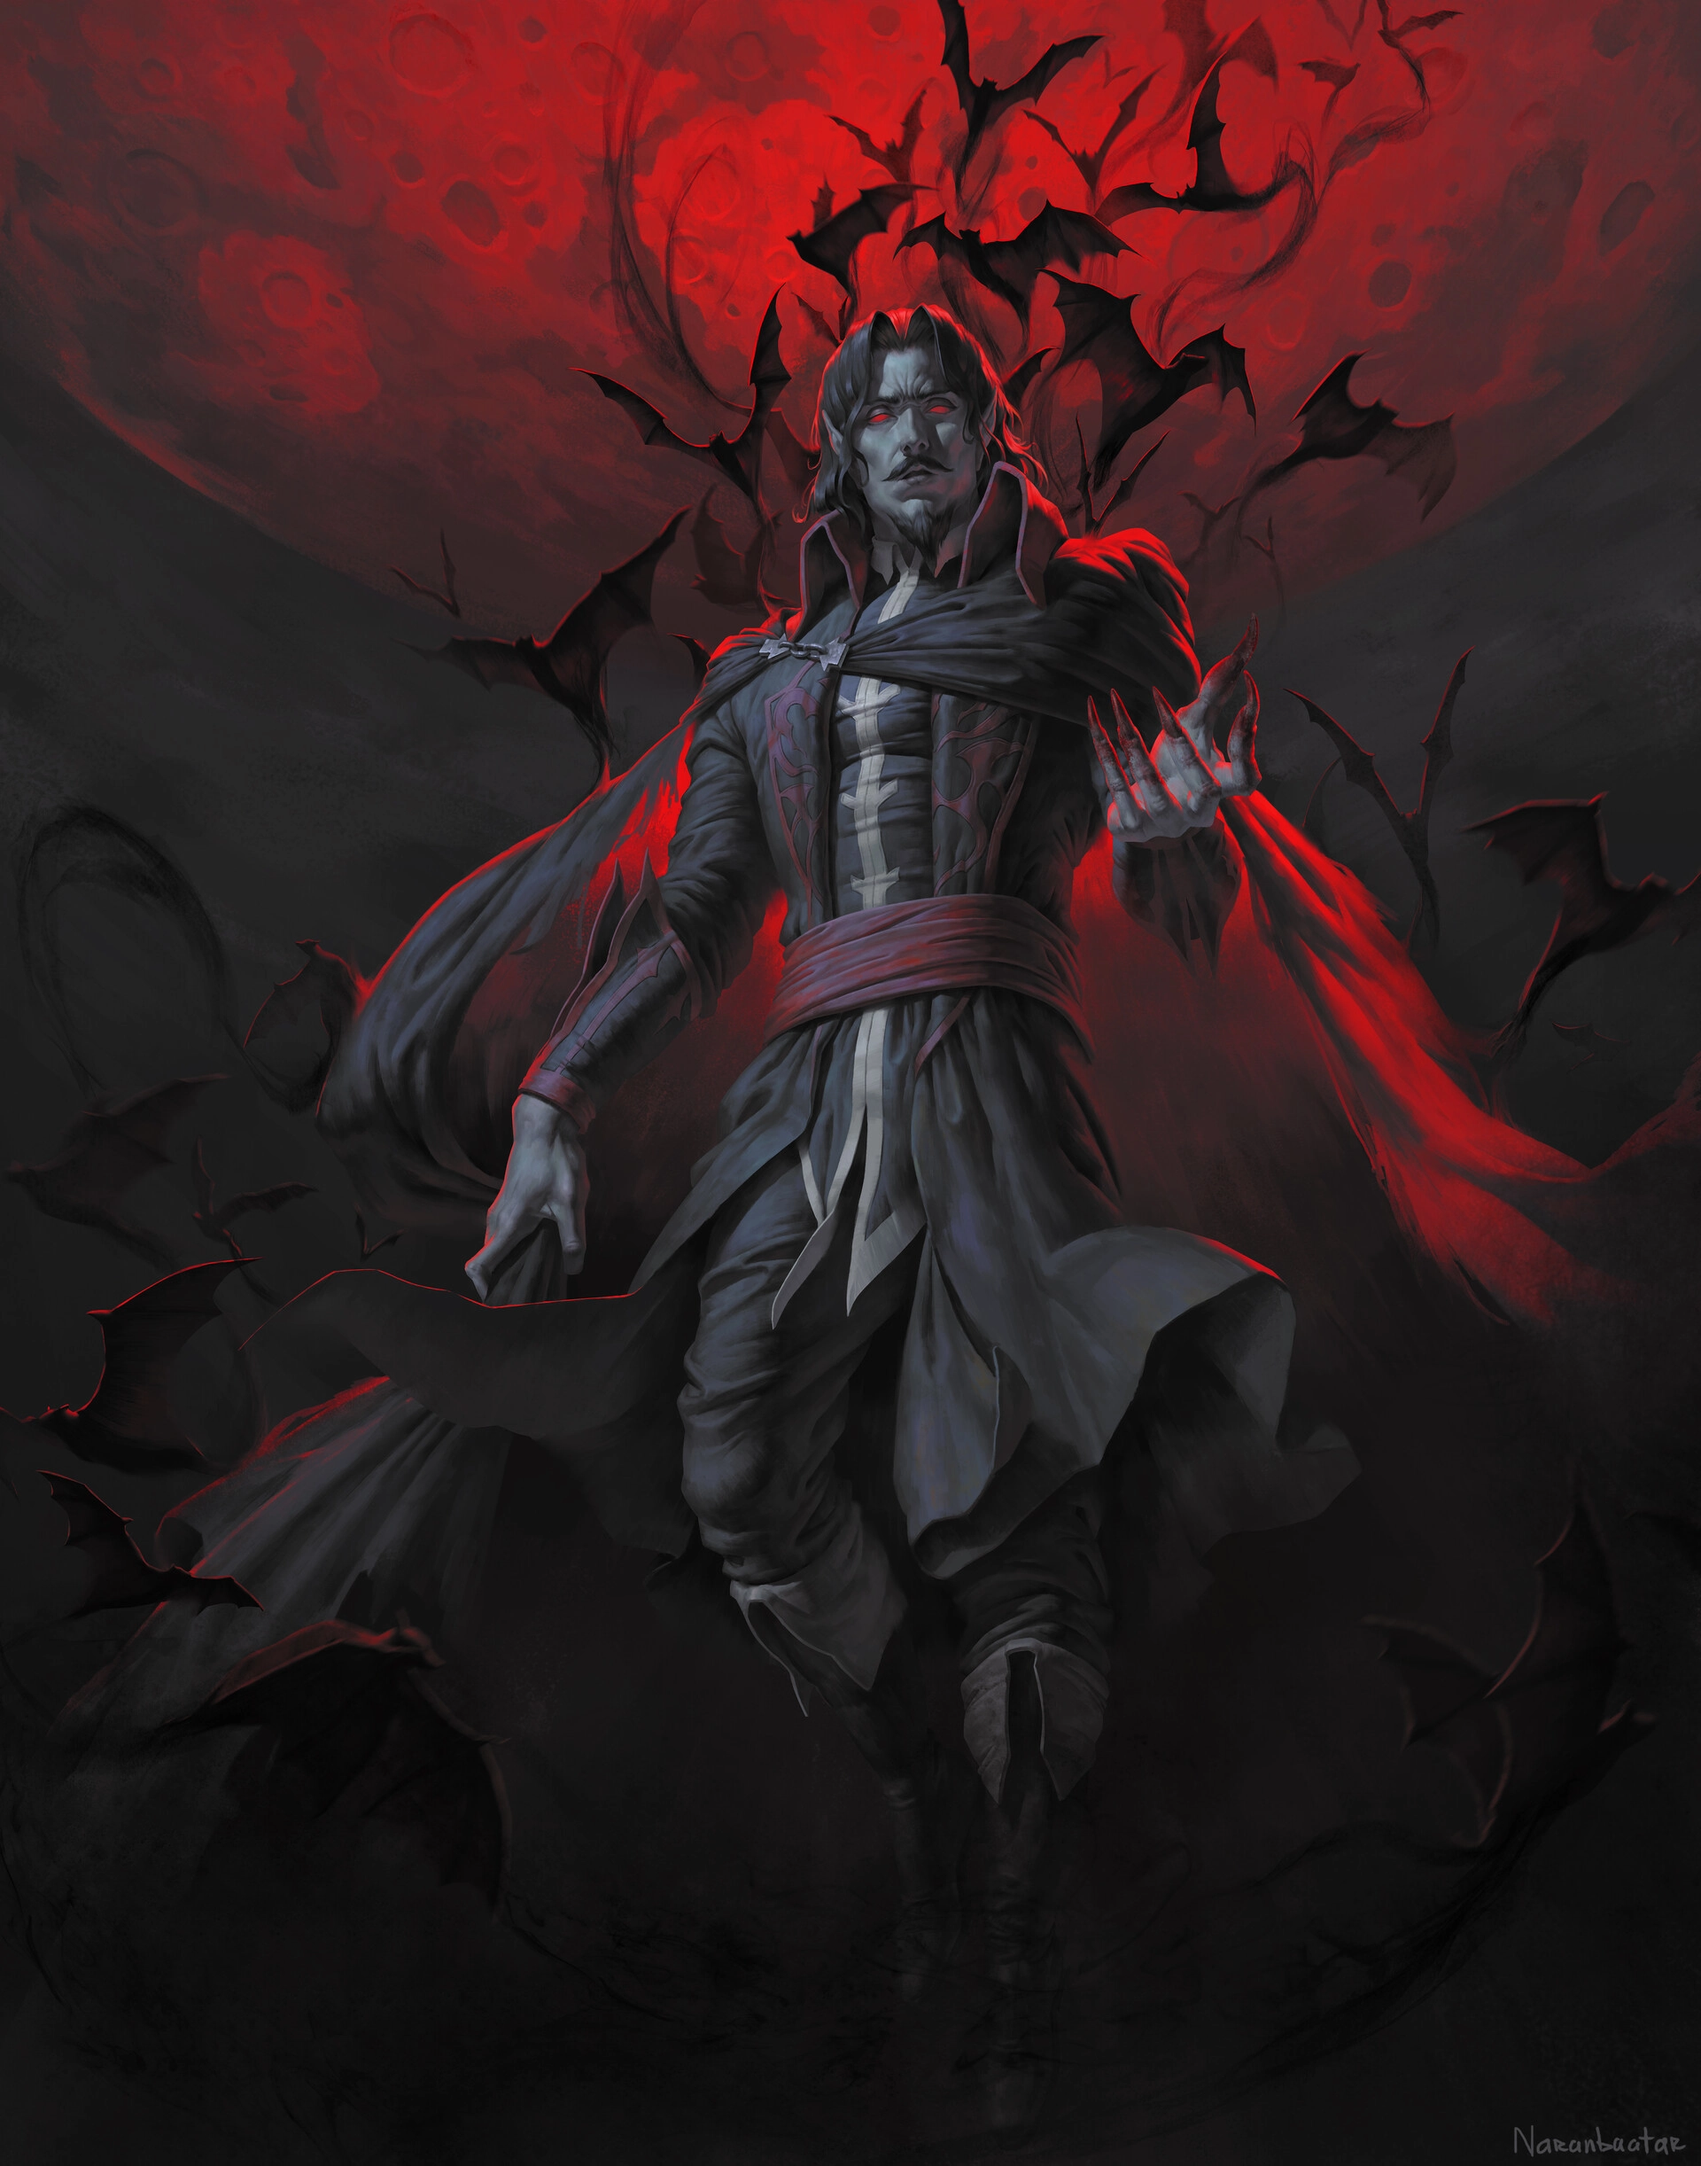
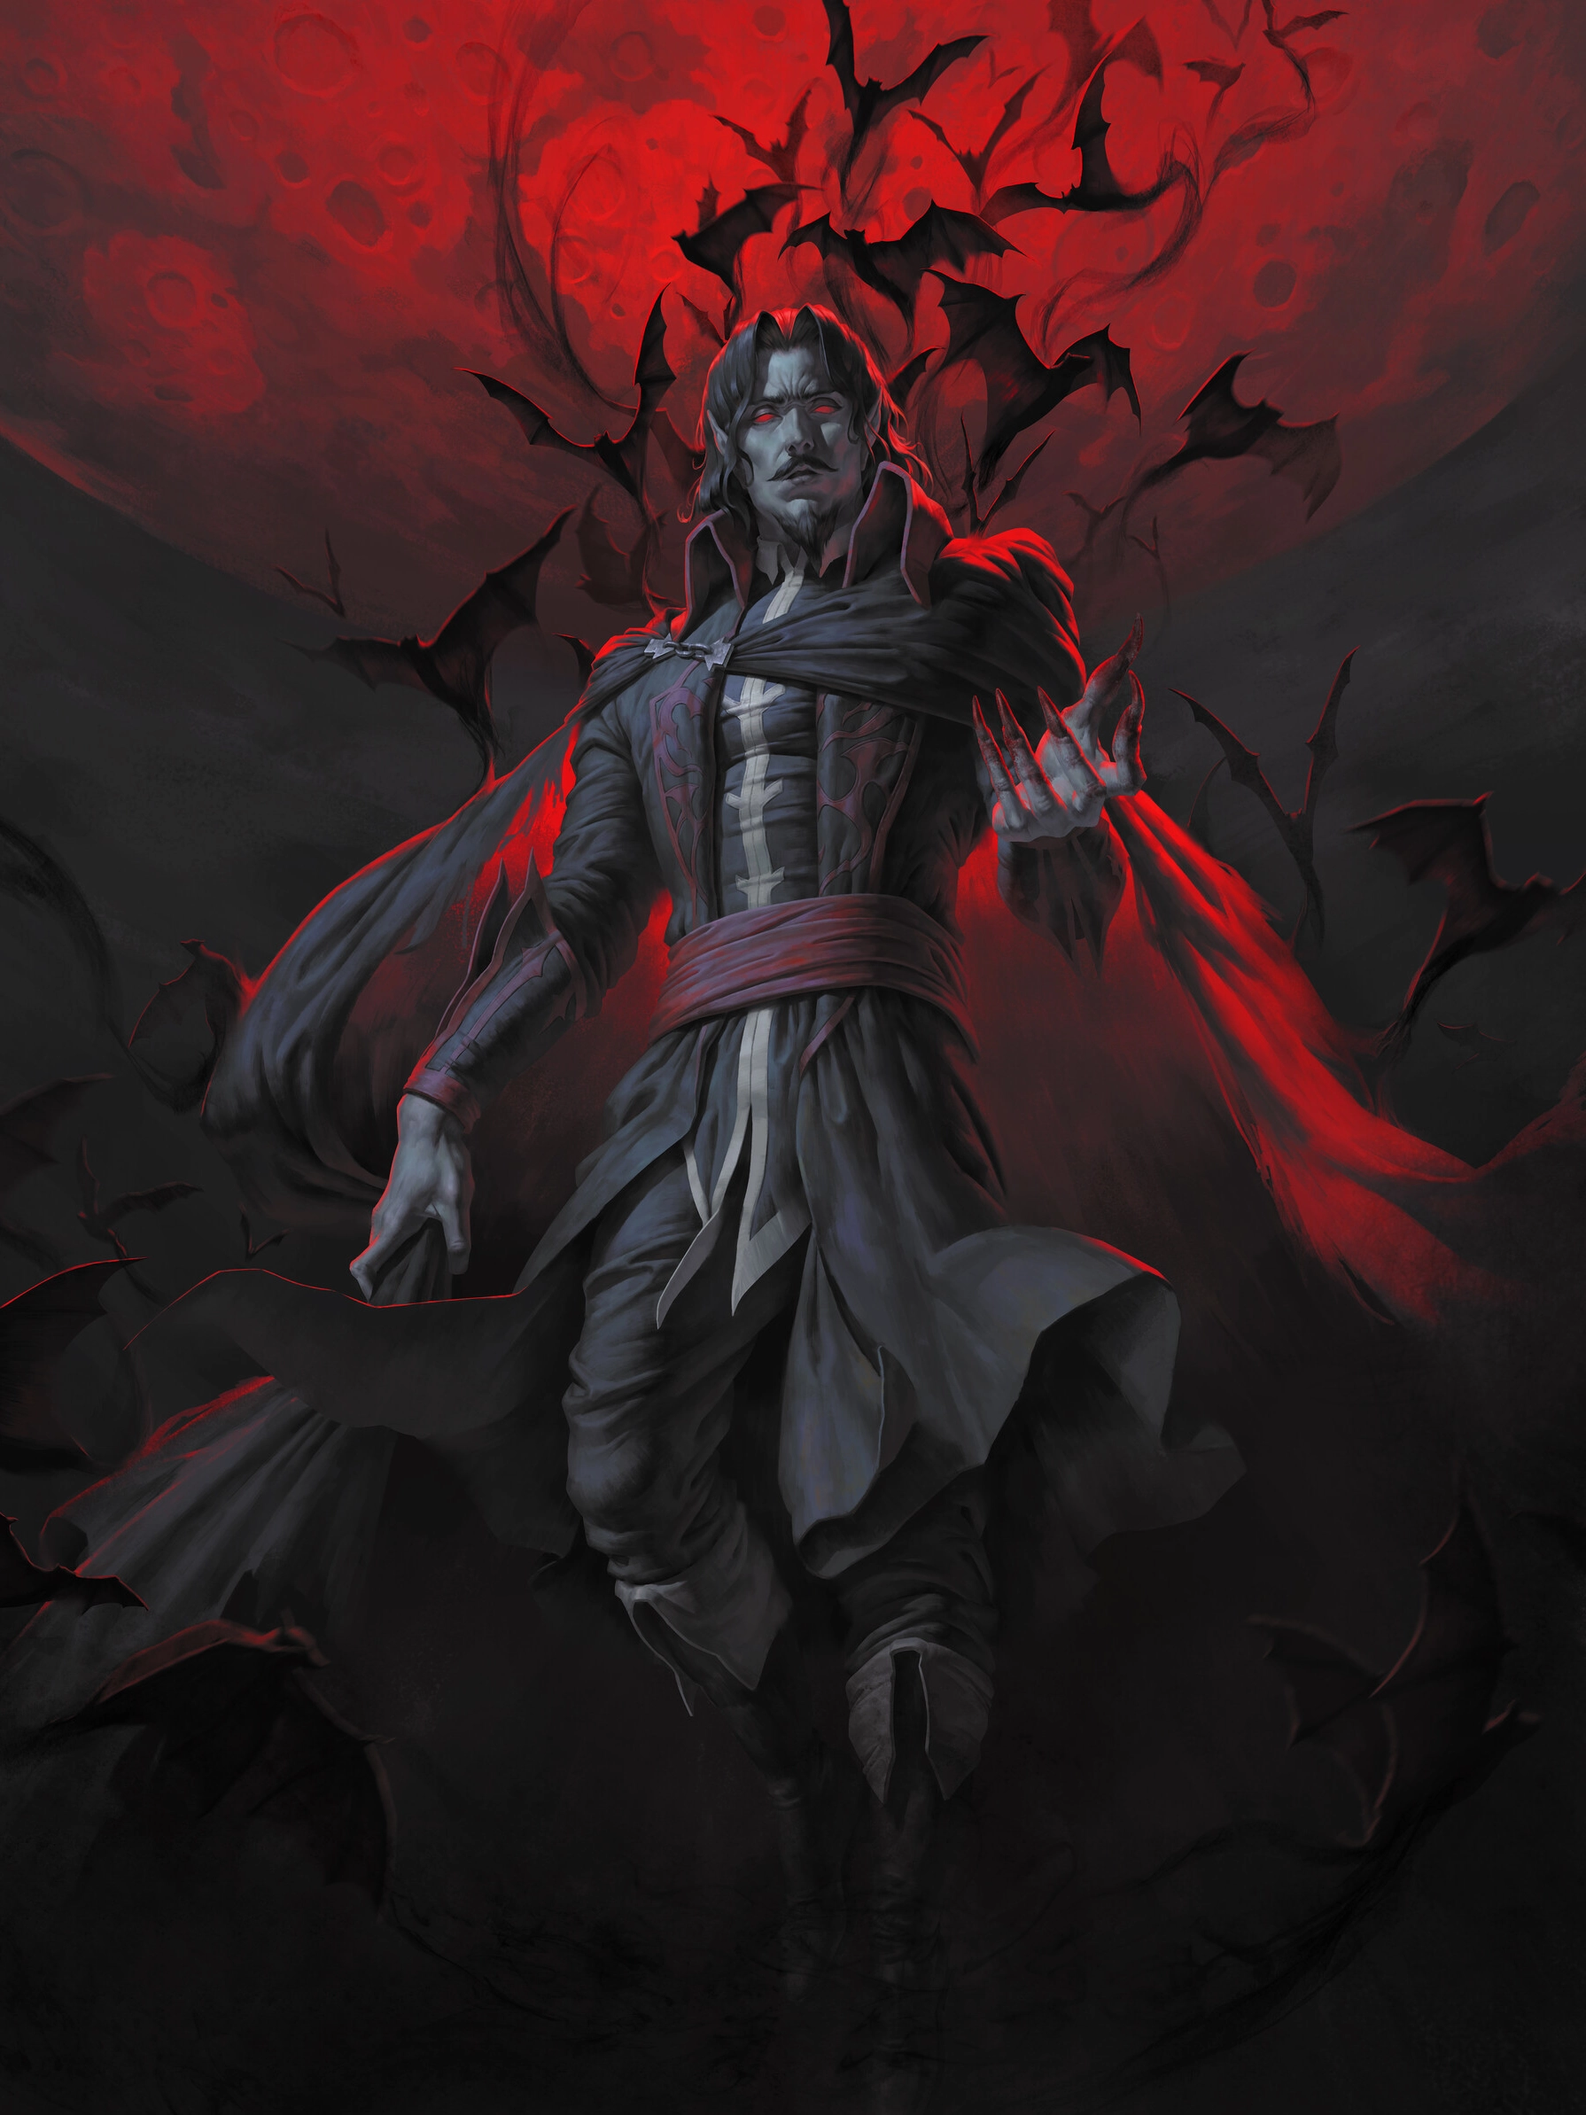
Assign fixed IDs to UI test cards and fix card images

diff --git a/CardTrader/CardTrader.DataAccess/DbInitializer.cs b/CardTrader/CardTrader.DataAccess/DbInitializer.cs
@@ -179,6 +179,7 @@ public static class DbInitializer
             // UI checks
             new()
             {
+                Id = 901,
                 Name = "The Unknown",
                 Rarity = CardRarity.Common,
                 Element = CardElement.Neutral,
@@ -190,17 +191,7 @@ public static class DbInitializer
             },
             new()
             {
-                Name = "The Flattened",
-                Rarity = CardRarity.Uncommon,
-                Element = CardElement.Earth,
-                Description = "Born 3:4, raised 32:9. Bends grids and breaks UIs.",
-                Lore = "Legend says a careless designer once dragged its corner without holding Shift. "
-                    + "It has never been the same since, and neither have the layouts it touches. "
-                    + "Frontend developers whisper its name when cards overflow their containers.",
-                ImageUrl = "the-flattened.webp", // Deliberately wide image (~32:9) to test aspect ratio handling
-            },
-            new()
-            {
+                Id = 902,
                 Name = "The Translucent",
                 Rarity = CardRarity.Epic,
                 Element = CardElement.Light,
@@ -209,6 +200,18 @@ public static class DbInitializer
                     + "Against the night it glows like a lantern, but when the lights come on, it is nowhere to be seen. "
                     + "Only those who set a checkerboard background have ever seen its true form.",
                 ImageUrl = "the-translucent.webp", // Semi-transparent image to test alpha channel handling
+            },
+            new()
+            {
+                Id = 903,
+                Name = "The Flattened",
+                Rarity = CardRarity.Uncommon,
+                Element = CardElement.Earth,
+                Description = "Born 3:4, raised 32:9. Bends grids and breaks UIs.",
+                Lore = "Legend says a careless designer once dragged its corner without holding Shift. "
+                    + "It has never been the same since, and neither have the layouts it touches. "
+                    + "Frontend developers whisper its name when cards overflow their containers.",
+                ImageUrl = "the-flattened.webp", // Deliberately wide image (~32:9) to test aspect ratio handling
             },
         };
 
